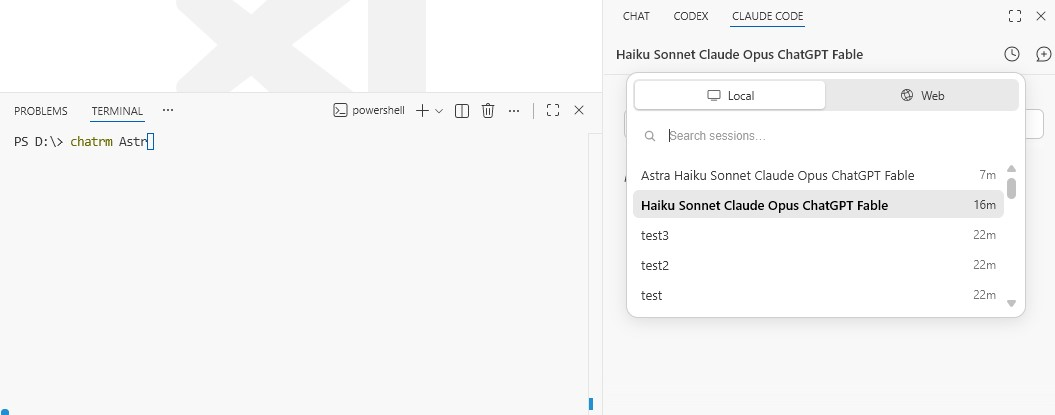
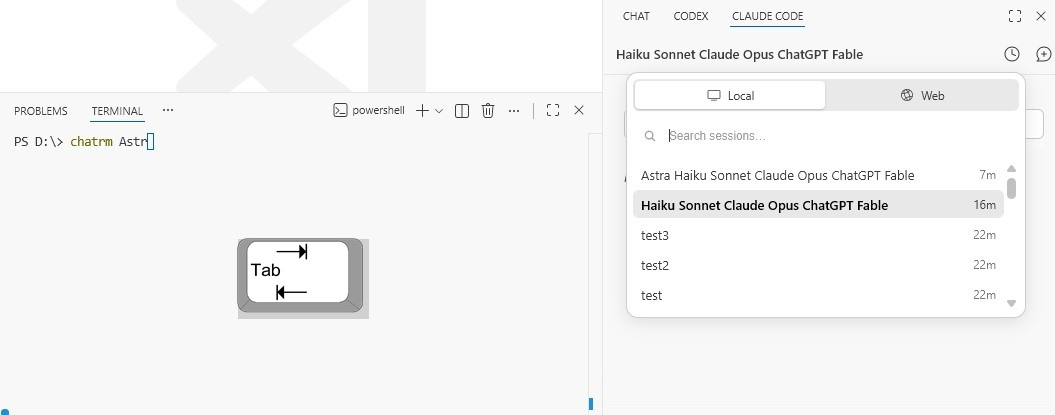
docs: draw the keys on the screenshots
The Tab and Enter keycaps sat between the screenshots as images of their
own, which read as two more pictures rather than as the keystroke that
turns one frame into the next. They are now composited onto the frame
where the key is actually pressed, so the demo is four images instead of
six and each one carries its own instruction.

Both keys land at the same spot in the empty terminal, over a soft
shadow - without it a white keycap dissolves into the light terminal
behind it.

Changed region(s): [[0.2123, 0.5494, 0.364, 0.7807]]

diff --git a/README.md b/README.md
@@ -11,21 +11,17 @@ One file. No modules, no dependencies, nothing to build.
 
 ## Demo
 
-Type any part of a title — no quotes, no id, no exact spelling:
+Type any part of a title — no quotes, no id, no exact spelling — then press Tab:
 
-![The prompt reading "chatrm Astr", beside the VS Code chat panel listing a session named "Astra Haiku Sonnet Claude Opus ChatGPT Fable"](docs/demo-1-type.jpg)
-
-<img src="docs/key-tab.png" alt="The Tab key" width="80">
+![The prompt reading "chatrm Astr", with the Tab key drawn over the empty terminal below it, beside the VS Code chat panel listing a session named "Astra Haiku Sonnet Claude Opus ChatGPT Fable"](docs/demo-1-type.jpg)
 
 Tab fills in the whole argument — quoted for you, with the chat's age and which
 match it is. `(7m)` is seven minutes since it was last touched, `#1/1` the only
-chat that matched:
+chat that matched. Then press Enter:
 
-![The same prompt, now reading "chatrm 'Astra Haiku Sonnet Claude Opus ChatGPT Fable' (7m) #1/1"](docs/demo-2-tab.jpg)
+![The same prompt, now reading "chatrm 'Astra Haiku Sonnet Claude Opus ChatGPT Fable' (7m) #1/1", with the Enter key drawn over the empty terminal below it](docs/demo-2-tab.jpg)
 
-<img src="docs/key-enter.png" alt="The Enter key" width="120">
-
-Enter deletes it:
+Deleted:
 
 ![The chat reported deleted, followed by a note that the session list is cached and needs a window reload](docs/demo-3-deleted.jpg)
 
